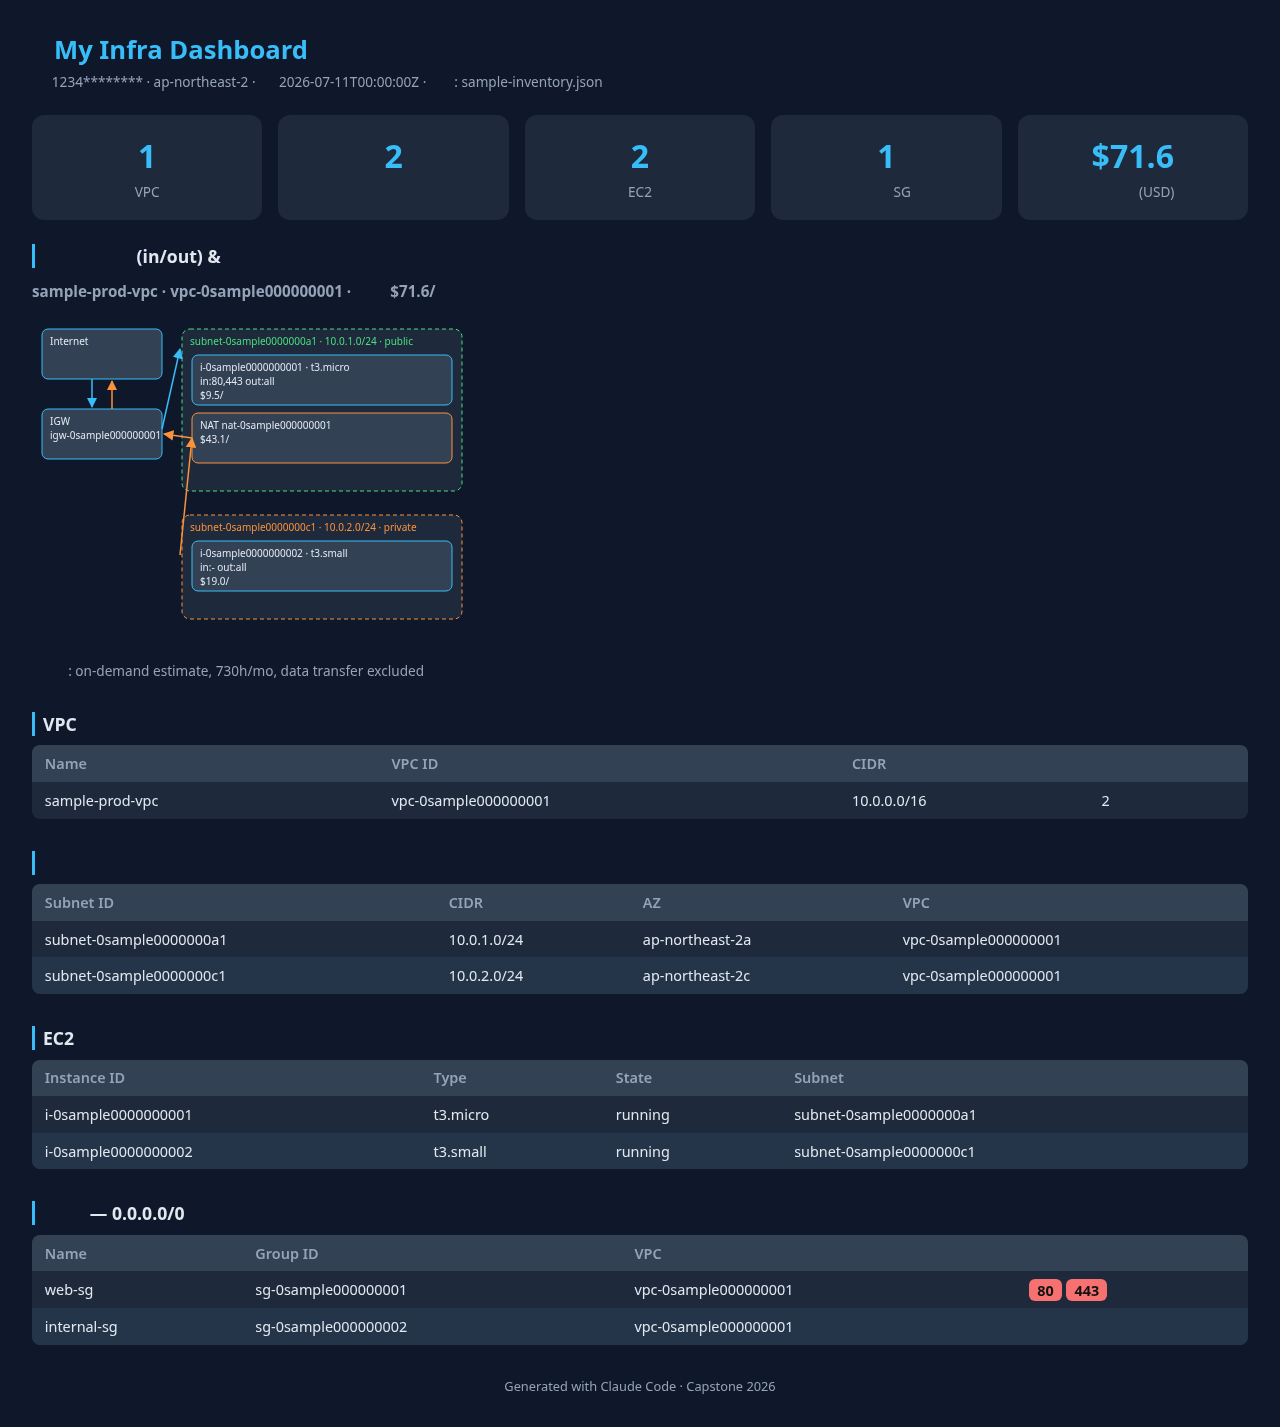
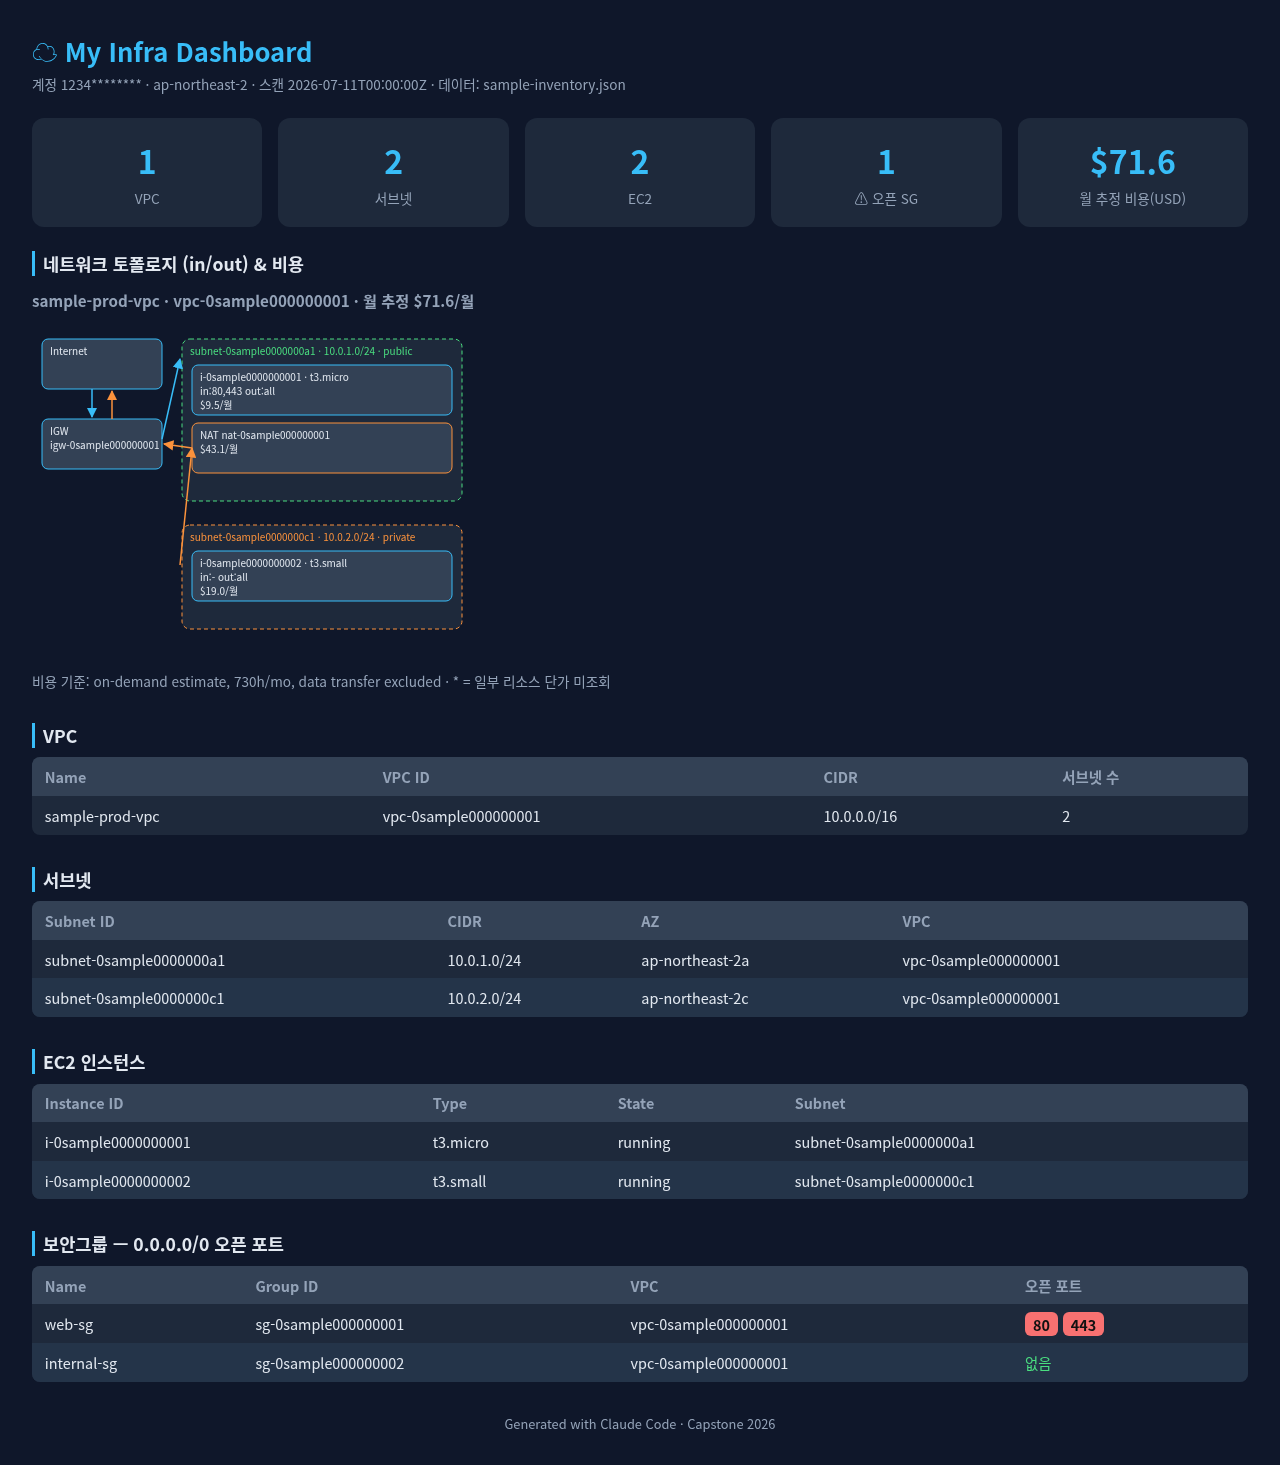
fix(capstone-ext): final review fixes (out-merge, partial-sum marker, docs, CJK screenshot)

diff --git a/capstone/my-infra-dashboard/scripts/build_dashboard.py b/capstone/my-infra-dashboard/scripts/build_dashboard.py
@@ -67,6 +67,10 @@ def monthly_sum(items):
     return round(sum(nums), 1) if nums else None
 
 
+def has_unpriced(items):
+    return any(x.get("monthly_usd") is None for x in items)
+
+
 def svg_node(x, y, w, lines, stroke):
     txt = "".join(
         f'<text x="{x + 8}" y="{y + 16 + n * 14}" font-size="10" fill="#e2e8f0">{t}</text>'
@@ -191,7 +195,12 @@ def render(d):
 
     nats = d.get("nat_gateways", [])
     total = monthly_sum(ec2 + nats)
-    total_label = f"${total:,.1f}" if total is not None else "$—"
+    if total is None:
+        total_label = "$—"
+    elif has_unpriced(ec2 + nats):
+        total_label = f"${total:,.1f}*"
+    else:
+        total_label = f"${total:,.1f}"
     cards = [("VPC", len(vpcs)), ("서브넷", len(subnets)),
              ("EC2", len(ec2)), ("⚠ 오픈 SG", len(open_sgs)),
              ("월 추정 비용(USD)", total_label)]
@@ -222,14 +231,17 @@ def render(d):
         if not svg:
             continue
         vtotal = monthly_sum(v_ec2 + v_nats)
+        vtotal_label = fmt_usd(vtotal)
+        if vtotal is not None and has_unpriced(v_ec2 + v_nats):
+            vtotal_label += "*"
         topo.append(f'<h3>{esc(v.get("name"))} · {esc(v.get("id"))} · '
-                    f'월 추정 {fmt_usd(vtotal)}</h3>{svg}')
+                    f'월 추정 {vtotal_label}</h3>{svg}')
     topo_section = ""
     if topo:
         note = esc(d.get("pricing_note", ""))
         topo_section = ('<section><h2>네트워크 토폴로지 (in/out) &amp; 비용</h2>'
                         + "".join(topo)
-                        + f'<p class="meta">비용 기준: {note}</p></section>')
+                        + f'<p class="meta">비용 기준: {note} · * = 일부 리소스 단가 미조회</p></section>')
 
     return f"""<!DOCTYPE html>
 <html lang="ko"><head><meta charset="utf-8">

diff --git a/docs/superpowers/plans/2026-07-11-topology-cost-extension.md b/docs/superpowers/plans/2026-07-11-topology-cost-extension.md
@@ -15,7 +15,7 @@
 - Pricing API는 항상 `--region us-east-1` 엔드포인트, 단가는 스캔 리전(`regionCode=$REGION`) 기준
 - 모든 Pricing 조회는 실패 시 `null` 폴백 — 스캔 전체가 죽지 않아야 함
 - 비용 = 온디맨드 단가 × 730h, 소수 1자리 반올림. running 인스턴스만 계산(stopped는 0). NAT는 시간당 요금만(데이터 처리 제외)
-- route 판정: 0.0.0.0/0 라우트가 igw-* → `public`, nat-* → `private`, 그 외 → `isolated` (명시 연결 없는 서브넷은 VPC main 라우트 테이블 상속)
+- route 판정: 0.0.0.0/0 라우트가 igw-* → `public`, nat-* → `private`, 그 외 → `isolated` (명시 연결 없는 서브넷은 VPC main 라우트 테이블 상속) (igw/nat 이외의 기본 라우트 — VGW/TGW/피어링/어플라이언스 ENI 등 — 는 설계상 전부 isolated로 표시된다. "인터넷 경로 없음"이 아니라 "igw/nat 경로 아님"의 의미)
 - in 화살표 색 `#38bdf8`, out 화살표 색 `#fb923c`
 
 ---
@@ -100,6 +100,8 @@ git commit -m "feat(capstone-ext): extend sample inventory with topology and cos
       "Bash(aws ec2 describe-route-tables:*)",
       "Bash(aws pricing get-products:*)",
 ```
+
+참고: Pricing 조회에는 IAM 액션 pricing:GetProducts가 필요하다(ec2:Describe*와 별개). 권한이 없으면 스캔은 죽지 않고 pricing_note가 "pricing unavailable", 비용이 "$—"로 표시된다.
 
 - [ ] **Step 2: scan.sh 전체 교체**
 
@@ -205,9 +207,10 @@ jq -n \
     ec2_instances: ($ec2 | map(. as $i | $i + {
       in_ports: ([$sgs[] | select(. as $g | ($i.sg_ids // []) | index($g.id)) | .open_ports[]] | unique),
       out: (([$sgs[] | select(. as $g | ($i.sg_ids // []) | index($g.id)) | .out]) as $outs
-            | if ($outs | index("all")) then "all"
-              elif ($outs | length) == 0 then "none"
-              else ($outs | unique | join(",")) end),
+            | ([$outs[] | split(",")[] | select(. != "none")] | unique) as $toks
+            | if ($toks | index("all")) then "all"
+              elif ($toks | length) == 0 then "none"
+              else ($toks | join(",")) end),
       monthly_usd: (if .state == "running" then monthly($prices[.type] // null) else 0 end)
     }))
   }' > data/inventory.json
@@ -279,6 +282,10 @@ def fmt_usd(v):
 def monthly_sum(items):
     nums = [x.get("monthly_usd") for x in items if isinstance(x.get("monthly_usd"), (int, float))]
     return round(sum(nums), 1) if nums else None
+
+
+def has_unpriced(items):
+    return any(x.get("monthly_usd") is None for x in items)
 
 
 def svg_node(x, y, w, lines, stroke):
@@ -392,6 +399,8 @@ def svg_topology(vpc, nats, instances):
 위 코드는 public 행을 먼저 그리므로(rows 순서), NAT는 public 서브넷 안에서 먼저 배치되어
 좌표가 확정된 후 private 행이 그려진다 — rows 순서 `(pub, rest)`가 이 가정을 보장한다.
 
+또한 NAT가 첫 칼럼이 아닌 경우 private→NAT 화살표가 중간 서브넷 박스 위를 가로지른다 — 다이어그램이 복잡한 멀티 AZ VPC에서는 시각적으로 겹칠 수 있으며, 이는 알려진 표시 한계다(정확성에는 영향 없음).
+
 - [ ] **Step 2: render() 확장** — 기존 `render()` 함수에서 세 곳 수정:
 
 (a) `cards` 리스트를 다음으로 교체 (비용 카드 추가):
@@ -399,7 +408,12 @@ def svg_topology(vpc, nats, instances):
 ```python
     nats = d.get("nat_gateways", [])
     total = monthly_sum(ec2 + nats)
-    total_label = f"${total:,.1f}" if total is not None else "$—"
+    if total is None:
+        total_label = "$—"
+    elif has_unpriced(ec2 + nats):
+        total_label = f"${total:,.1f}*"
+    else:
+        total_label = f"${total:,.1f}"
     cards = [("VPC", len(vpcs)), ("서브넷", len(subnets)),
              ("EC2", len(ec2)), ("⚠ 오픈 SG", len(open_sgs)),
              ("월 추정 비용(USD)", total_label)]
@@ -417,14 +431,17 @@ def svg_topology(vpc, nats, instances):
         if not svg:
             continue
         vtotal = monthly_sum(v_ec2 + v_nats)
+        vtotal_label = fmt_usd(vtotal)
+        if vtotal is not None and has_unpriced(v_ec2 + v_nats):
+            vtotal_label += "*"
         topo.append(f'<h3>{esc(v.get("name"))} · {esc(v.get("id"))} · '
-                    f'월 추정 {fmt_usd(vtotal)}</h3>{svg}')
+                    f'월 추정 {vtotal_label}</h3>{svg}')
     topo_section = ""
     if topo:
         note = esc(d.get("pricing_note", ""))
         topo_section = ('<section><h2>네트워크 토폴로지 (in/out) &amp; 비용</h2>'
                         + "".join(topo)
-                        + f'<p class="meta">비용 기준: {note}</p></section>')
+                        + f'<p class="meta">비용 기준: {note} · * = 일부 리소스 단가 미조회</p></section>')
 ```
 
 (c) f-string 본문에서 `<section class="cards">{card_html}</section>` 바로 다음 줄에 `{topo_section}` 삽입. CSS의 `h2` 규칙 아래에 다음 추가:
@@ -497,3 +514,5 @@ Expected: `네트워크 토폴로지` — 라이브 반영 확인
 git add capstone/my-infra-dashboard/docs/final-screenshot.png docs/superpowers/plans/2026-07-11-my-infra-dashboard.md
 git commit -m "feat(capstone-ext): deploy topology+cost dashboard, refresh sample screenshot"
 ```
+
+보안 주의: 배포된 대시보드는 인증 없이 공개되며, 이제 실계정의 라우팅 구조·오픈 포트·비용까지 노출한다. 리허설/데모 후 반드시 스택을 정리한다(버킷 비우기 → aws cloudformation delete-stack --stack-name my-infra-dashboard). 계정 마스킹(MASK_ACCOUNT=true 기본)은 유지한다.

diff --git a/docs/superpowers/specs/2026-07-11-topology-cost-extension-design.md b/docs/superpowers/specs/2026-07-11-topology-cost-extension-design.md
@@ -27,6 +27,7 @@ in/out 경로가 그려진 SVG, (b) EC2·NAT 노드별 월 추정 비용 배지,
 
 **route 판정 규칙**: 서브넷에 연결된(명시 연결 없으면 VPC main) 라우트 테이블의
 0.0.0.0/0 대상이 `igw-*`면 `public`, `nat-*`면 `private`, 그 외/없음이면 `isolated`.
+igw/nat 이외의 기본 라우트 — VGW/TGW/피어링/어플라이언스 ENI 등 — 는 설계상 전부 isolated로 표시된다. "인터넷 경로 없음"이 아니라 "igw/nat 경로 아님"의 의미.
 
 **비용 규칙**: 온디맨드 Linux/Shared 단가 × 730h = 월 추정(USD, 소수 1자리).
 running 상태 인스턴스만 비용 계산(stopped는 $0 + "stopped" 표기). NAT는 시간당